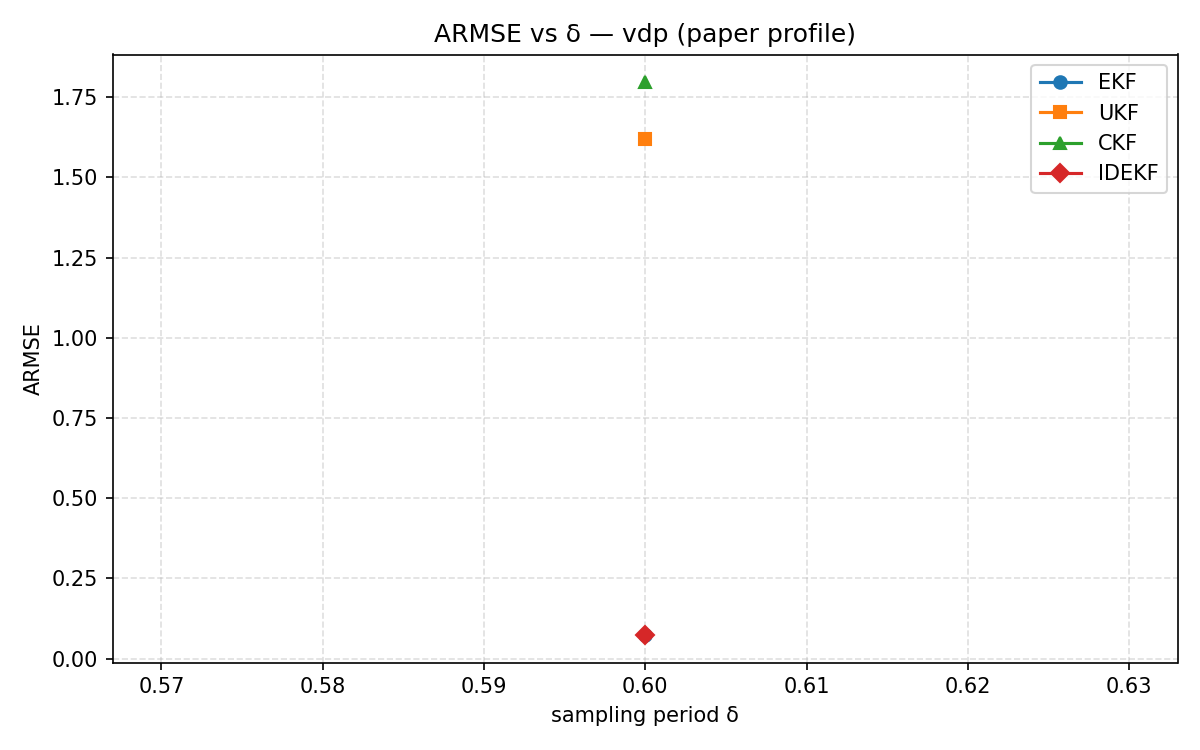
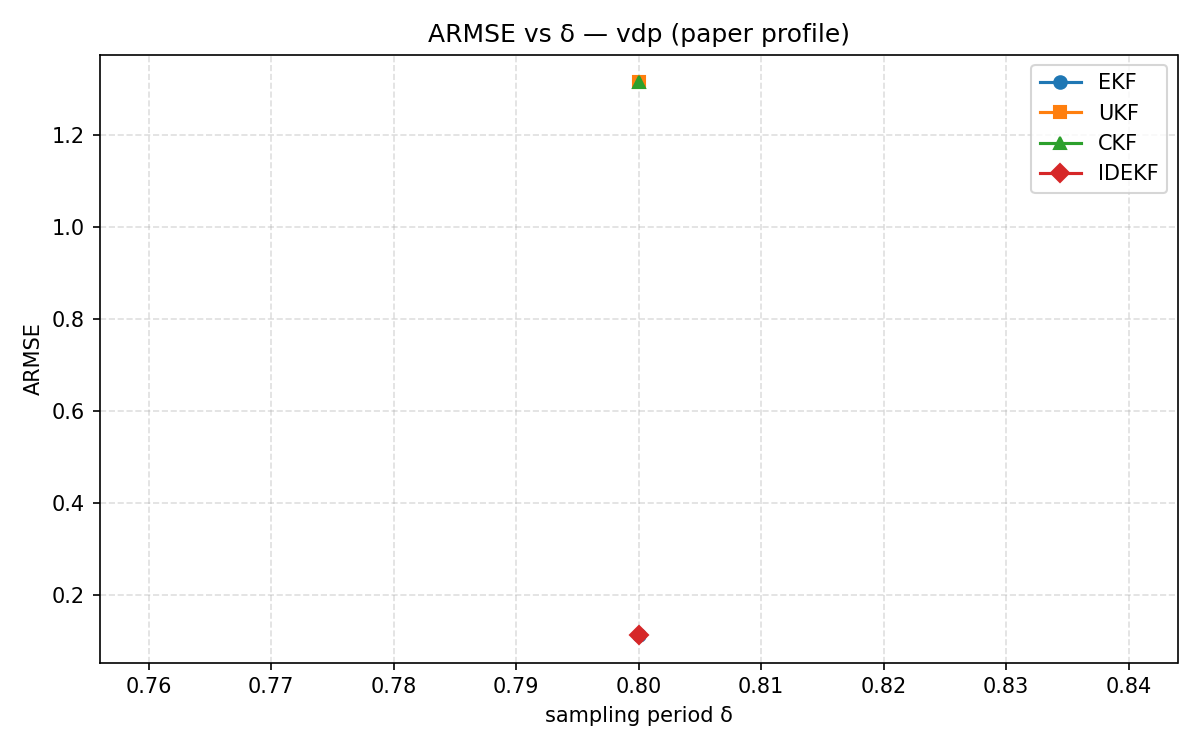
edits

diff --git a/run_armse.py b/run_armse.py
@@ -205,7 +205,7 @@ if __name__ == "__main__":
     parser.add_argument("--runs", type=int, default=3)          
     parser.add_argument("--seed", type=int, default=1)
     parser.add_argument("--outdir", type=str, default="results")
-    deltas = [0.8]
+    deltas = [0.9]
     parser.add_argument("--deltas", type=float, nargs="*", default=deltas)
     parser.add_argument("--profile", choices=["paper"], default="paper")
     args = parser.parse_args()
